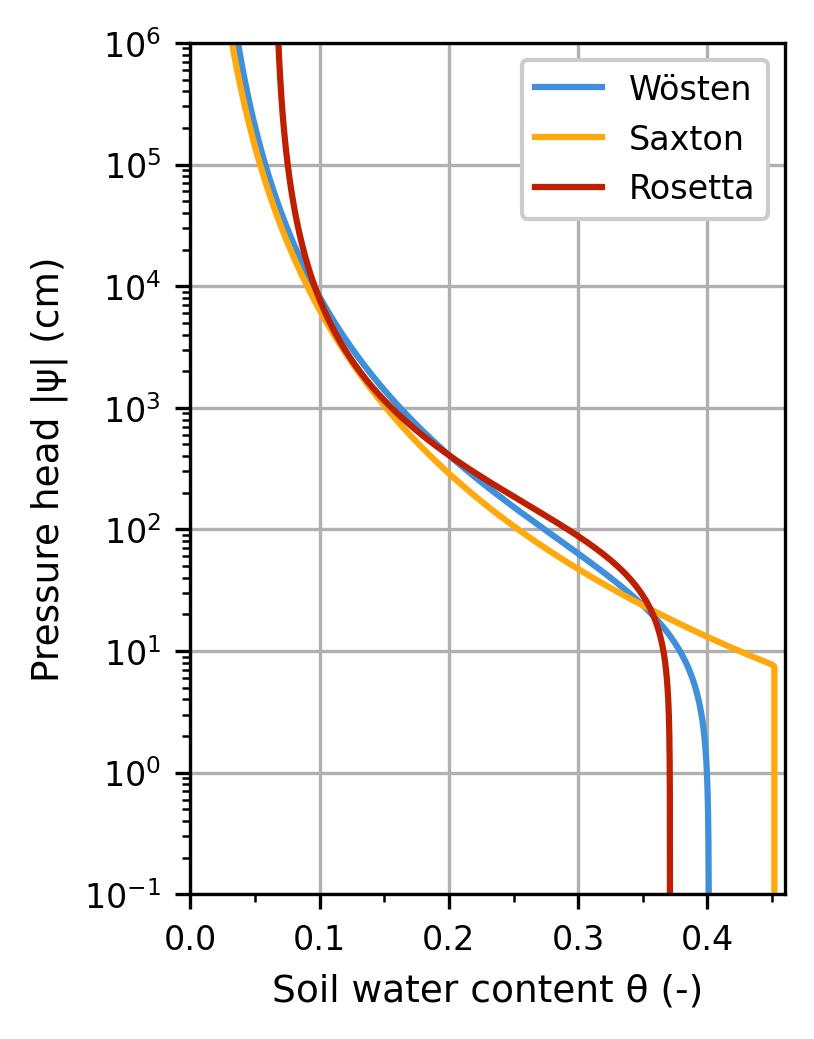
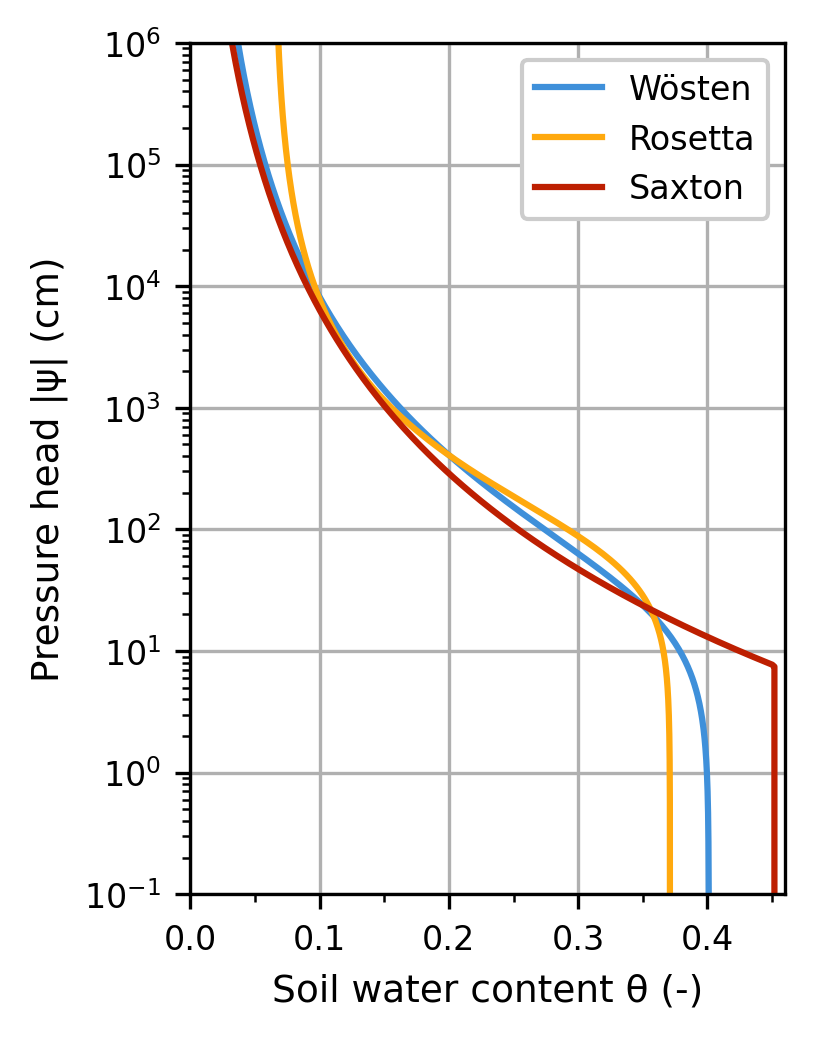
update order and make sure everything fits on the page

diff --git a/paper/paper.md b/paper/paper.md
@@ -138,7 +138,8 @@ hypags: pe.Genuchten = pe.SoilSample(k=ks).hypags()
 The same fitting procedure can translate between soil models. The SWRC and HCF generated by one model are sampled over a range of pressure heads and refitted using another formulation. This enables direct model comparison (Figure \ref{fig:fit_swrc_hcf}) and facilitates integration with external tools when a different soil model is required [@vonk_nonlinear_2024].
 
 ```python
-# Fitting a Brooks-Corey soil model to the SWRC and HCF of a Mualem-van Genuchten soil model
+# Fitting a Brooks-Corey soil model to the SWRC and HCF of a
+# Mualem-van Genuchten soil model
 bcf = pe.SoilSample(h=h, theta=theta, k=k).fit(pe.Brooks)
 ```
 